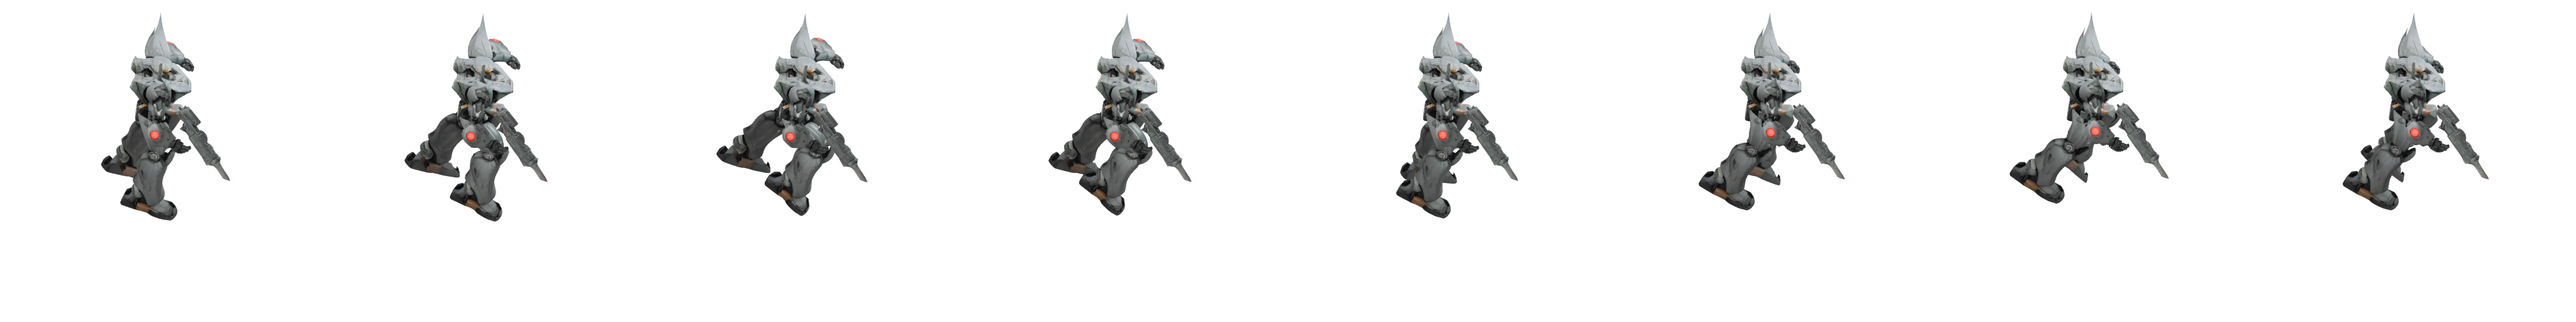
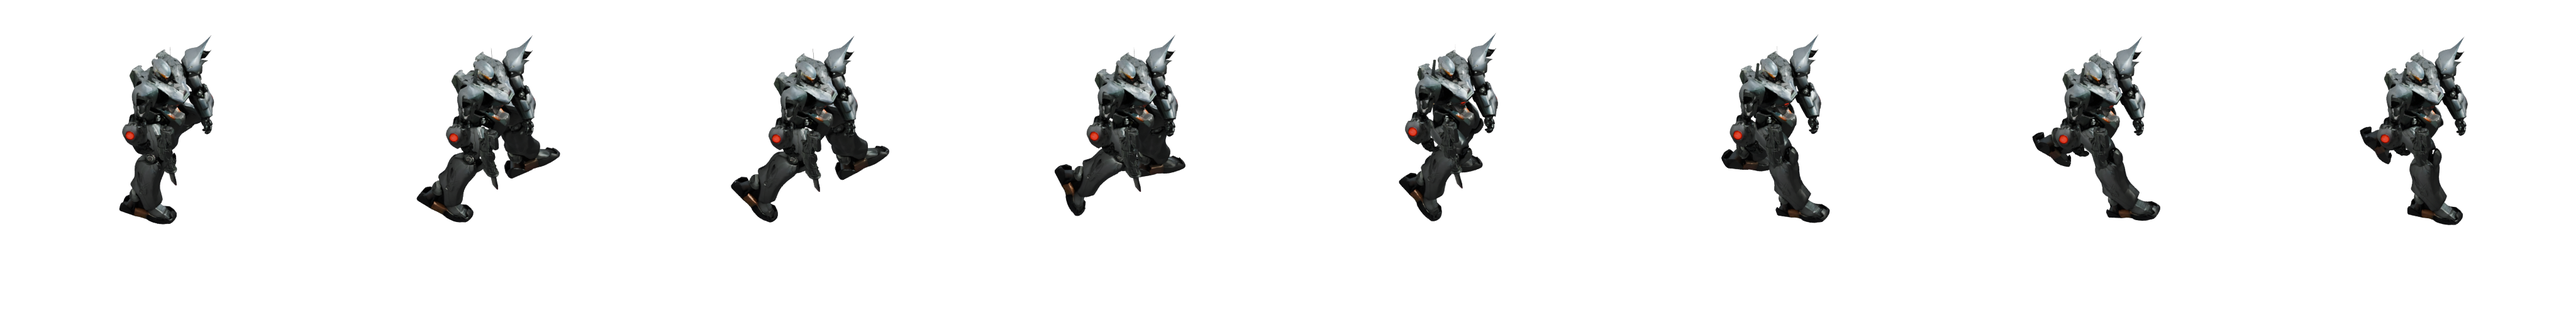
revert: restaure la marche Meshy pour bruiser/vanquisher
Patron : « les deux n'ont plus le rig de marche normal » — le commit
precedent (d1ac293) avait remplace la marche Meshy (« demarche de mecha
robot » explicitement demandee et validee : « maintenant la marche c'est
mieux ») par notre propre choregraphie, en pensant corriger un probleme
d'ecartement des jambes. Mesure directe (LeftFoot/RightFoot, meme calcul
que le correctif idle) sur les 8 frames de l'animation Meshy : l'ecart
reel est DEJA de 20.7-22.3% de la hauteur, dans la fourchette vortex
(17.0%)/bluestrike(20.7%)/titan(21.1%) — pas de probleme d'ecartement
lateral a corriger sur cette planche. Le retrait etait donc une erreur ;
restaure la marche Meshy inchangee.

Le probleme rapporte (« bancal pas droit ») n'est donc PAS l'ecartement
des jambes. A chercher ailleurs si ca persiste (inclinaison du buste,
piste la plus probable a l'oeil) — idle/attack/hit gardent le correctif
d'ecartement du commit 31101ca, qui lui reste valide et mesure correct.

diff --git a/tools/bake_walk_mech.py b/tools/bake_walk_mech.py
@@ -30,6 +30,14 @@ FRAMES = 8
 SAMPLES = 16
 EL = 40.0
 
+# 🚨 25/09 : correctif d'ecartement envisage ici (meme logique que apply_bunker_guard_base),
+# puis ABANDONNE apres mesure directe — l'ecart reel entre pieds de CETTE animation est deja
+# de 20.7-22.3% sur les 8 frames (verifie via le meme calcul LeftFoot/RightFoot que le
+# correctif idle), dans la fourchette vortex(17%)/bluestrike(20.7%)/titan(21.1%). L'appliquer
+# aurait resserre le pas au lieu de l'elargir. Le probleme signale (« bancal pas droit ») n'est
+# donc pas l'ecartement lateral des jambes mais autre chose (a chercher cote inclinaison du
+# buste si ca revient) ; ne pas reappliquer de correctif Z ici sans re-mesurer.
+
 def setup_scene():
     bpy.ops.wm.read_factory_settings(use_empty=True)
     bpy.ops.import_scene.gltf(filepath=GLB_IN)
